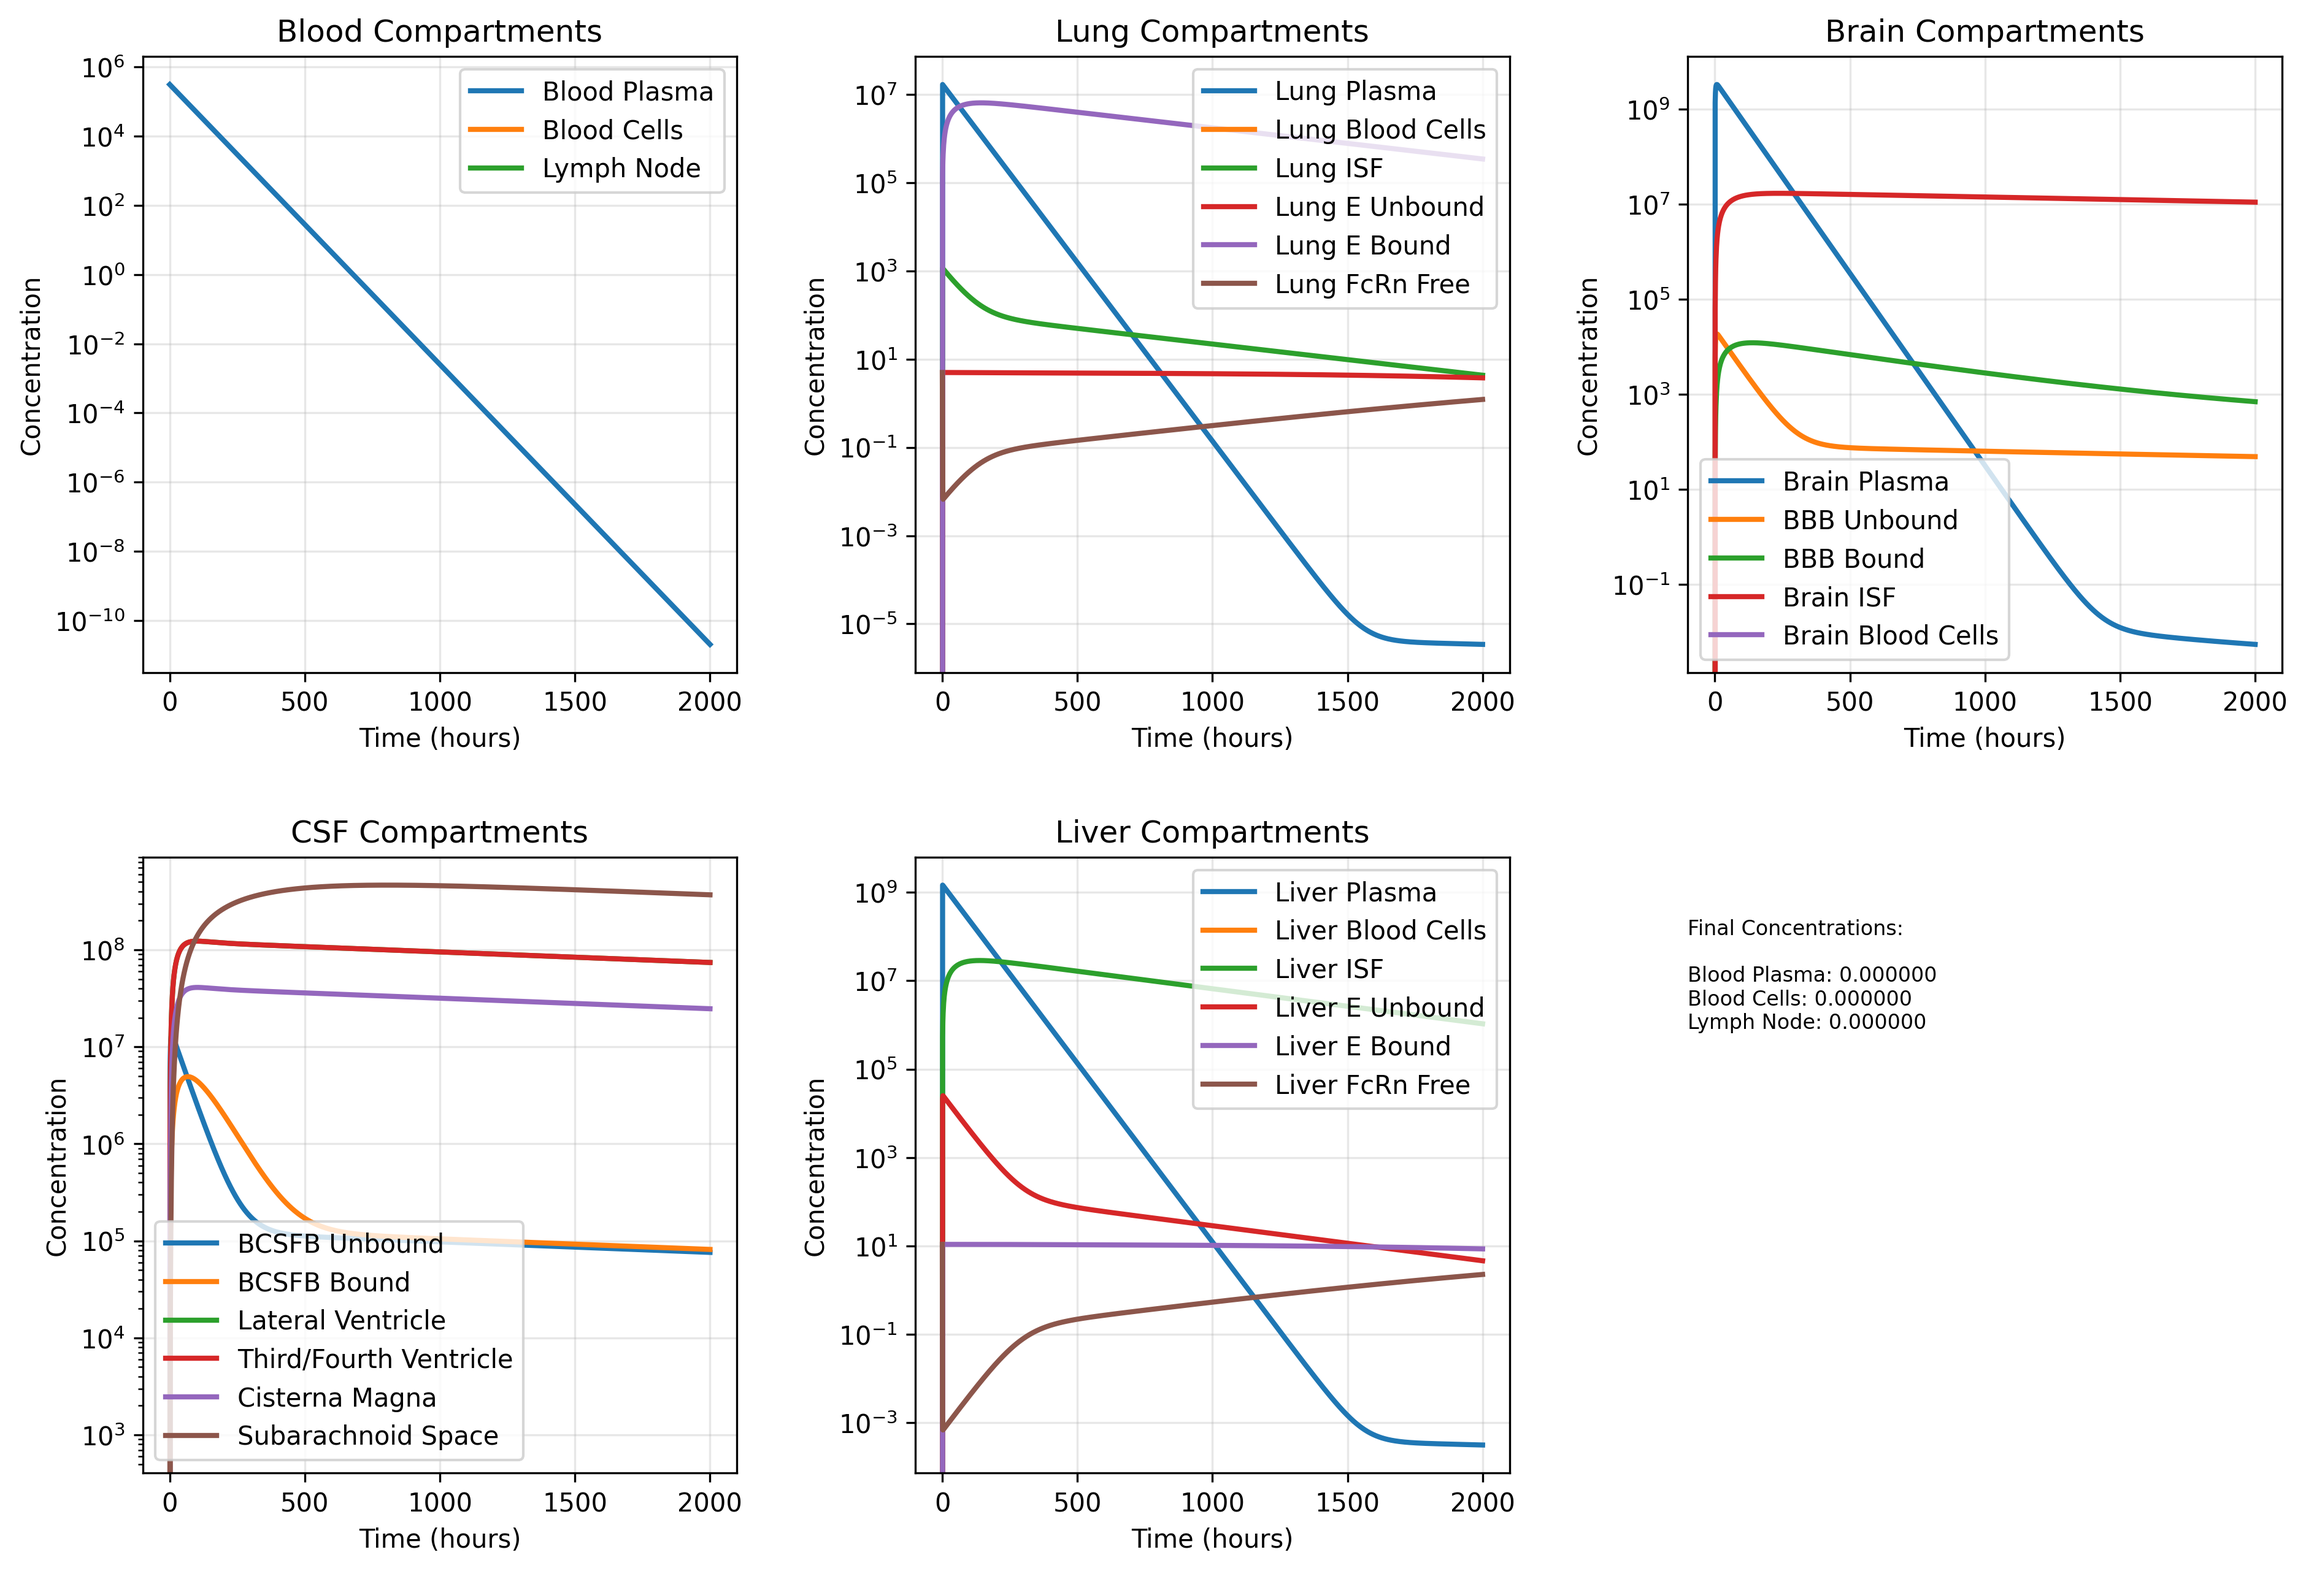
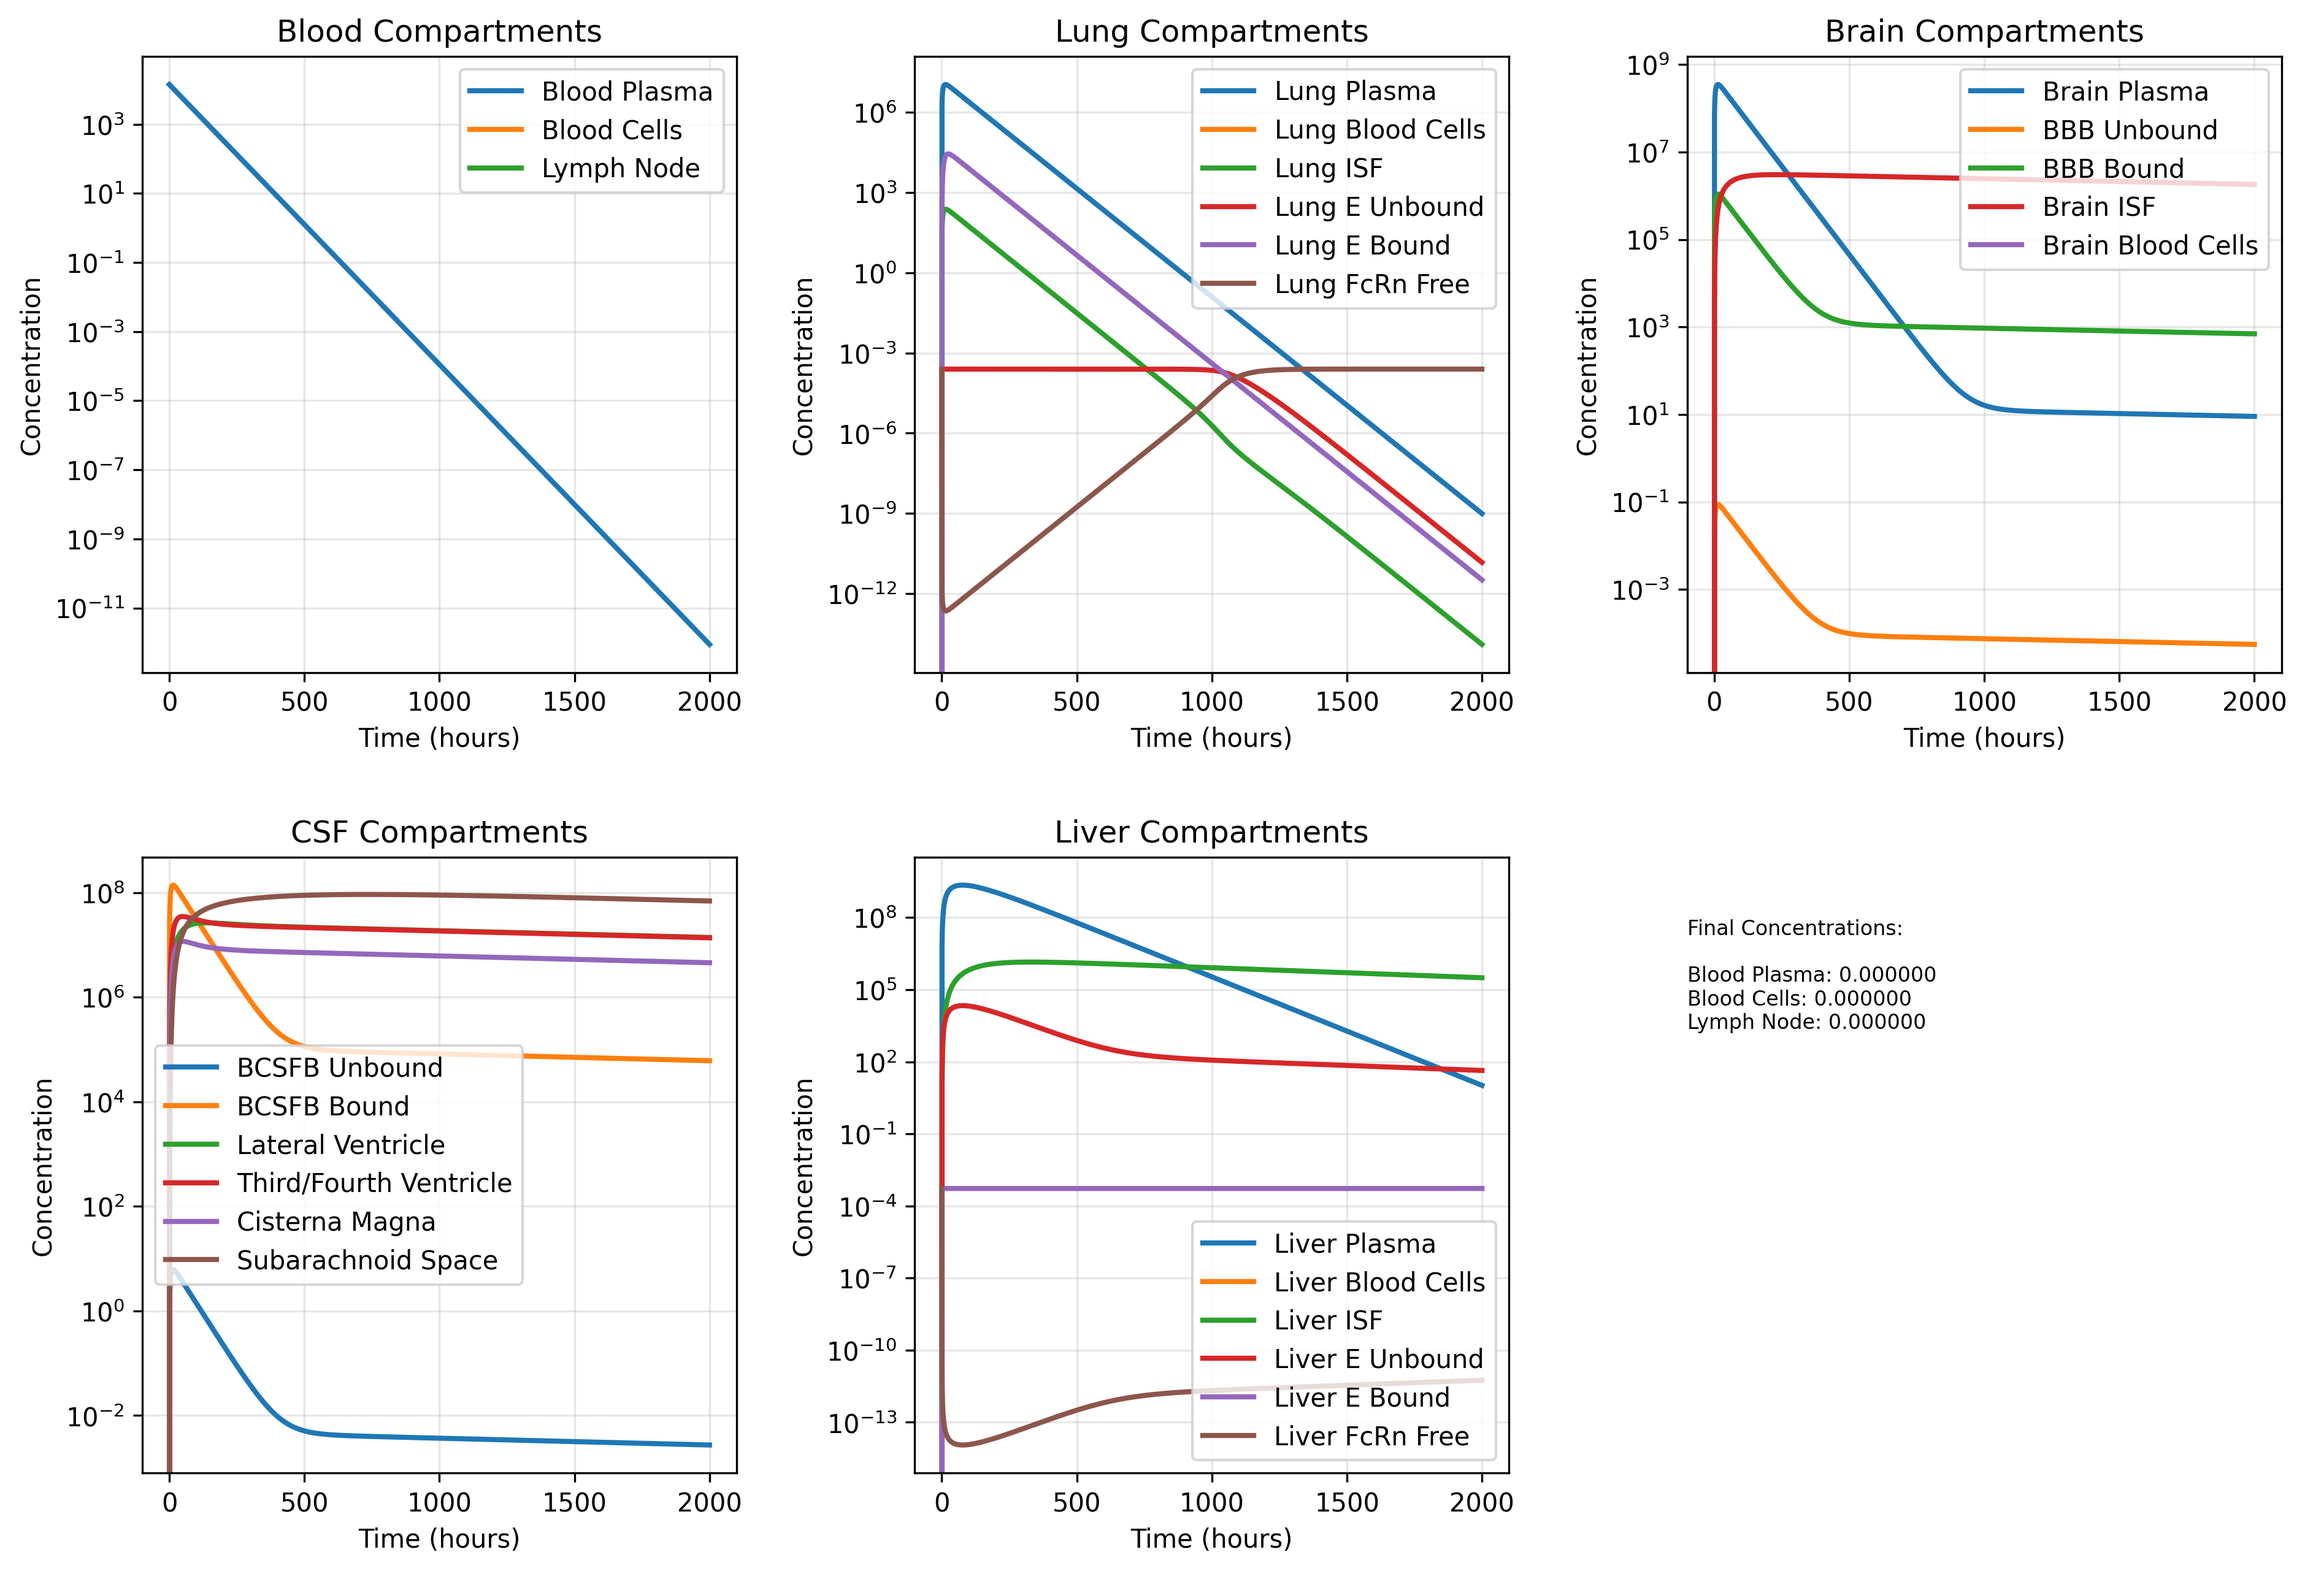
Created a version of modular code that uses csv all params

diff --git a/src/run_simulation_b.py b/src/run_simulation_b.py
@@ -30,7 +30,7 @@ def setup_coupled_system(registry, models, all_params):
     brain_indices = slice(9, 14)     # [C_p_brain, C_BBB_unbound_brain, C_BBB_bound_brain, C_is_brain, C_bc_brain]
     csf_indices = slice(14, 20)      # [C_BCSFB_unbound_brain, C_BCSFB_bound_brain, C_LV_brain, C_TFV_brain, C_CM_brain, C_SAS_brain]
     liver_indices = slice(20, 26)    # [C_p_liver, C_bc_liver, C_e_unbound_liver, C_e_bound_liver, C_is_liver, FcRn_free_liver]
-
+    
     @jit
     def coupled_system(t, y, args):
         # Split states
@@ -40,7 +40,7 @@ def setup_coupled_system(registry, models, all_params):
         csf_states = y[csf_indices]
         liver_states = y[liver_indices]
         
-        # Get initial parameters
+        # Get parameters
         blood_params = models['blood'].c
         lung_params = models['lung'].c
         brain_params = models['brain'].c
@@ -78,10 +78,11 @@ def setup_coupled_system(registry, models, all_params):
         dy_brain_dt = models['brain'].RateofSpeciesChange()(brain_states, t, {}, brain_params)
         dy_csf_dt = models['csf'].RateofSpeciesChange()(csf_states, t, {}, csf_params)
         dy_liver_dt = models['liver'].RateofSpeciesChange()(liver_states, t, {}, liver_params)
-        
-        # Combine derivatives in static order
+
+        # Combine derivatives
         dy_dt = jnp.concatenate([dy_blood_dt, dy_lung_dt, dy_brain_dt, dy_csf_dt, dy_liver_dt])
-            
+        #dy_dt = jnp.nan_to_num(dy_dt, nan=0.0)
+
         return dy_dt
 
     return coupled_system
@@ -104,50 +105,26 @@ def run_simulation():
     coupled_system = setup_coupled_system(registry, models, params_df)
     
     # Get initial conditions in correct order
-    y0_combined = jnp.array([
-        # Blood
-        params_df[params_df['name'] == 'C_p_0']['value'].iloc[0],
-        params_df[params_df['name'] == 'C_bc_0']['value'].iloc[0],
-        params_df[params_df['name'] == 'C_ln_0']['value'].iloc[0],
-        # Lung
-        params_df[params_df['name'] == 'C_p_lung_0']['value'].iloc[0],
-        params_df[params_df['name'] == 'C_bc_lung_0']['value'].iloc[0],
-        params_df[params_df['name'] == 'C_e_unbound_lung_0']['value'].iloc[0],
-        params_df[params_df['name'] == 'C_e_bound_lung_0']['value'].iloc[0],
-        params_df[params_df['name'] == 'C_is_lung_0']['value'].iloc[0],
-        params_df[params_df['name'] == 'FcRn_free_lung_0']['value'].iloc[0],
-        # Brain
-        params_df[params_df['name'] == 'C_p_brain_0']['value'].iloc[0],
-        params_df[params_df['name'] == 'C_BBB_unbound_brain_0']['value'].iloc[0],
-        params_df[params_df['name'] == 'C_BBB_bound_brain_0']['value'].iloc[0],
-        params_df[params_df['name'] == 'C_is_brain_0']['value'].iloc[0],
-        params_df[params_df['name'] == 'C_bc_brain_0']['value'].iloc[0],
-        # CSF
-        params_df[params_df['name'] == 'C_BCSFB_unbound_brain_0']['value'].iloc[0],
-        params_df[params_df['name'] == 'C_BCSFB_bound_brain_0']['value'].iloc[0],
-        params_df[params_df['name'] == 'C_LV_brain_0']['value'].iloc[0],
-        params_df[params_df['name'] == 'C_TFV_brain_0']['value'].iloc[0],
-        params_df[params_df['name'] == 'C_CM_brain_0']['value'].iloc[0],
-        params_df[params_df['name'] == 'C_SAS_brain_0']['value'].iloc[0],
-        # Liver
-        params_df[params_df['name'] == 'C_p_liver_0']['value'].iloc[0],
-        params_df[params_df['name'] == 'C_bc_liver_0']['value'].iloc[0],
-        params_df[params_df['name'] == 'C_e_unbound_liver_0']['value'].iloc[0],
-        params_df[params_df['name'] == 'C_e_bound_liver_0']['value'].iloc[0],
-        params_df[params_df['name'] == 'C_is_liver_0']['value'].iloc[0],
-        params_df[params_df['name'] == 'FcRn_free_liver_0']['value'].iloc[0]
+    y0_combined = jnp.concatenate([
+        models['blood'].y0,
+        models['lung'].y0,
+        models['brain'].y0,
+        models['csf'].y0,
+        models['liver'].y0
     ])
     
     # Simulation parameters
-    t0, t1 = 0.0, 2000.0
-    dt = 0.01
+    t0 = 0.0
+    t1 = 2000
+    dt = 0.0002
     n_steps = 2000
     
-    # Solve system
+    # Create diffrax solver
     term = diffrax.ODETerm(coupled_system)
-    solver = diffrax.Tsit5()
+    solver = diffrax.Kvaerno5()
     saveat = diffrax.SaveAt(ts=jnp.linspace(t0, t1, n_steps))
-    
+
+    # Solve the ODE system
     sol = diffrax.diffeqsolve(
         term,
         solver,
@@ -157,8 +134,10 @@ def run_simulation():
         y0=y0_combined,
         args=(None,),
         saveat=saveat,
-        max_steps=None
+        max_steps=1000000,
+        stepsize_controller=diffrax.PIDController(rtol=1e-8, atol=1e-8)
     )
+    
     
     return sol, registry
 
